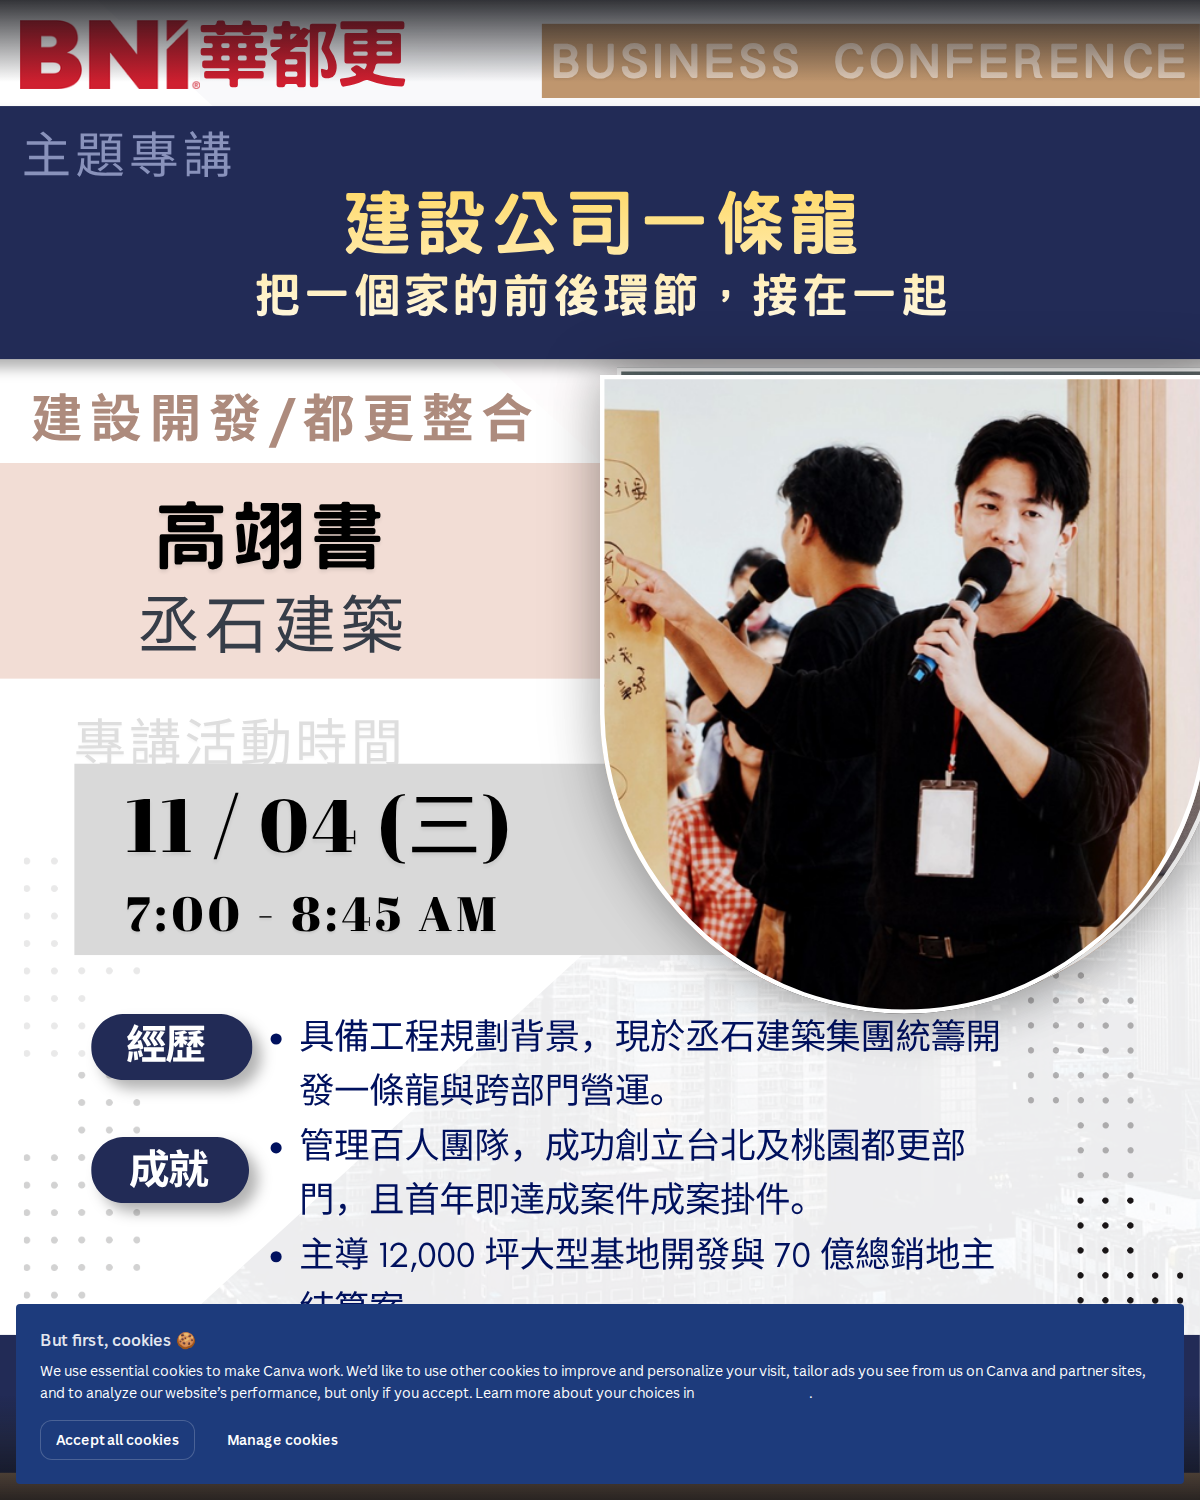
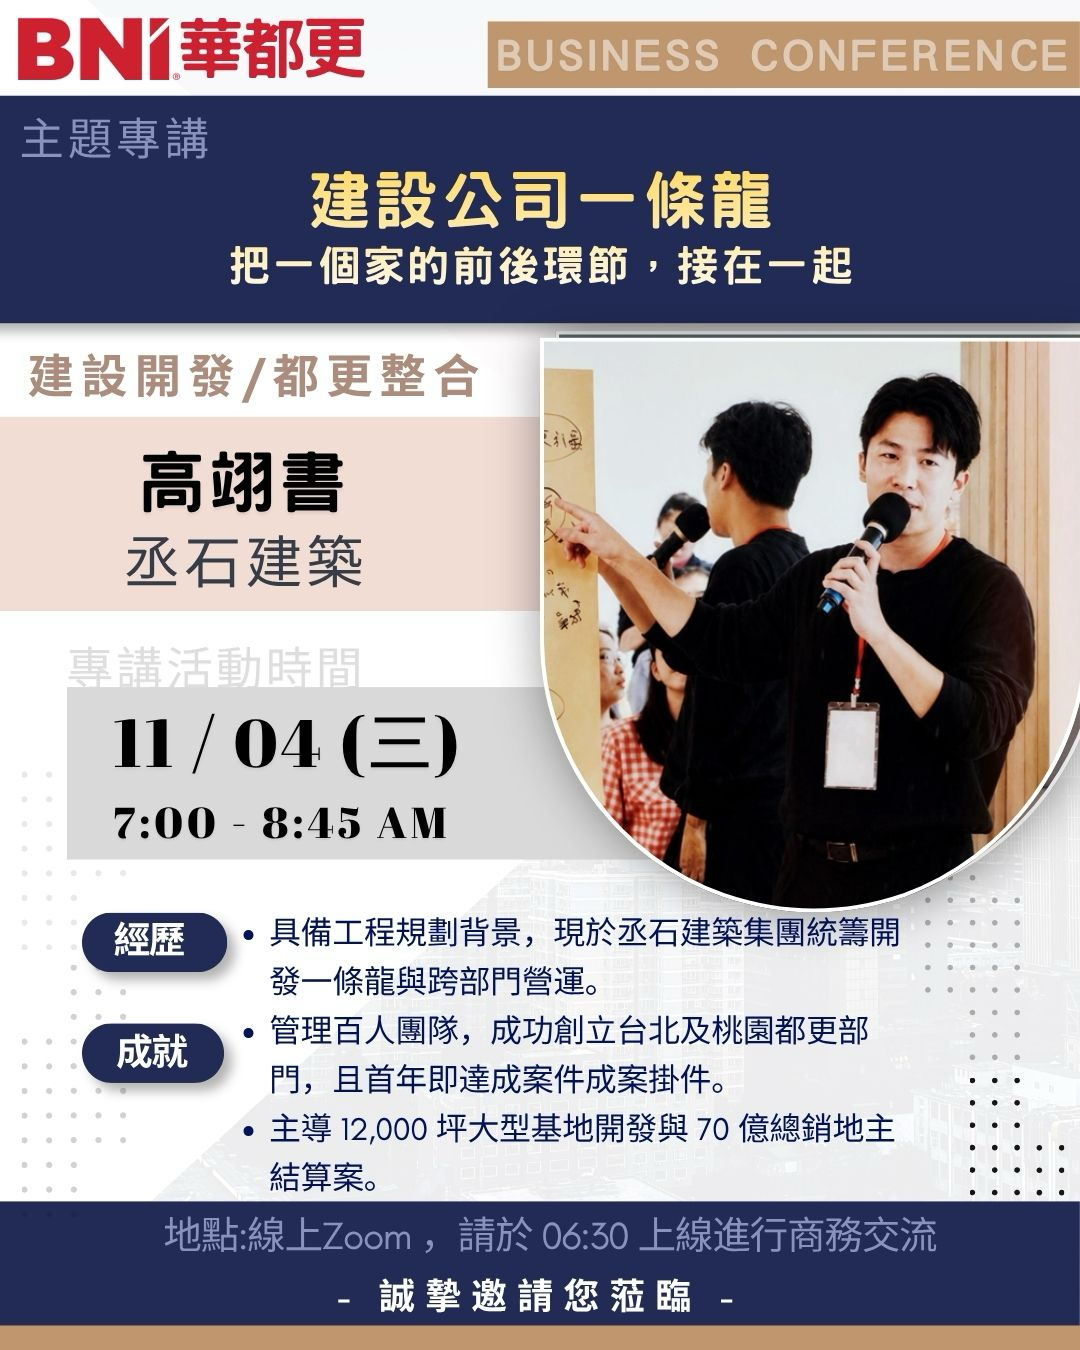
fix(guest): publish original Canva EDM exports without cookie overlay

diff --git a/guest/index.html b/guest/index.html
@@ -286,7 +286,7 @@ const GAS_URL = 'https://script.google.com/macros/s/AKfycbwX7BsF7OWcfP2DA5byYQ5C
     var day = String(d.getDate()).padStart(2, '0');
     return '' + y + m + day;
   }
-  var bustTag = cacheBustTag();
+  var bustTag = cacheBustTag() + '-original-20261106';
 
   /* 特別版覆蓋的失效時刻（台北時間，YYYYMMDDHHmm，到點即換）。
      202609020900 = 9/2 BOD 擴大商機日例會散場；09:00 起自動回到雙卡。
